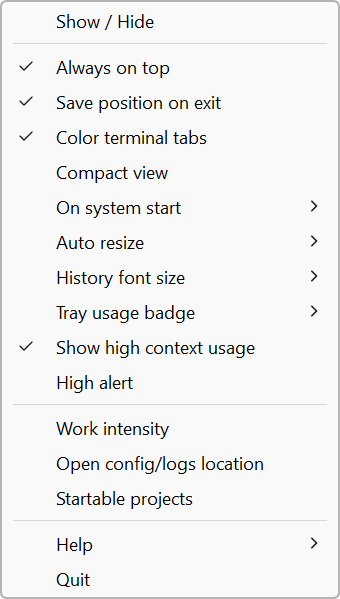
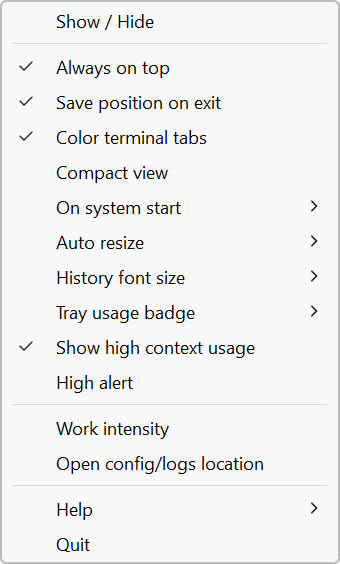
docs(screenshots): re-shoot the Windows tray menu

diff --git a/docs/screenshots/capture/compact-mode-macos.py b/docs/screenshots/capture/compact-mode-macos.py
@@ -126,9 +126,7 @@ def assert_frame_worthy(when: str, public) -> None:
 
     Only `agents` is examined. The roster's `registry_only` array is a read-path
     union of Claude Code's own live-session list and never becomes a dashboard
-    row, so none of it reaches the frame. The approvals panel does reach the frame
-    and is on no HTTP route at all, which is why the module docstring hands it to
-    the operator as an eye-check instead.
+    row, so none of it reaches the frame.
     """
     roster = dash.agents()
     rows = roster.get("agents", [])

diff --git a/docs/pages/settings.md b/docs/pages/settings.md
@@ -18,7 +18,7 @@ The tray's **Open config/logs location** shortcut opens this folder. The widget 
 
 Right-click the tray icon for the controls you reach for most.
 
-{% include figure.html id="tray-menu" alt="The tray menu, open: Show / Hide, the checkable toggles, the submenus, the Work intensity, and config folder items, Help and Quit" %}
+{% include figure.html id="tray-menu" alt="The tray menu, open: Show / Hide, the checkable toggles, the submenus, the Work intensity and config folder items, Help and Quit" %}
 
 - **Show / Hide** — toggle the window (also a left-click on the tray icon).
 - **Always on top** — keep the widget above your other windows.
